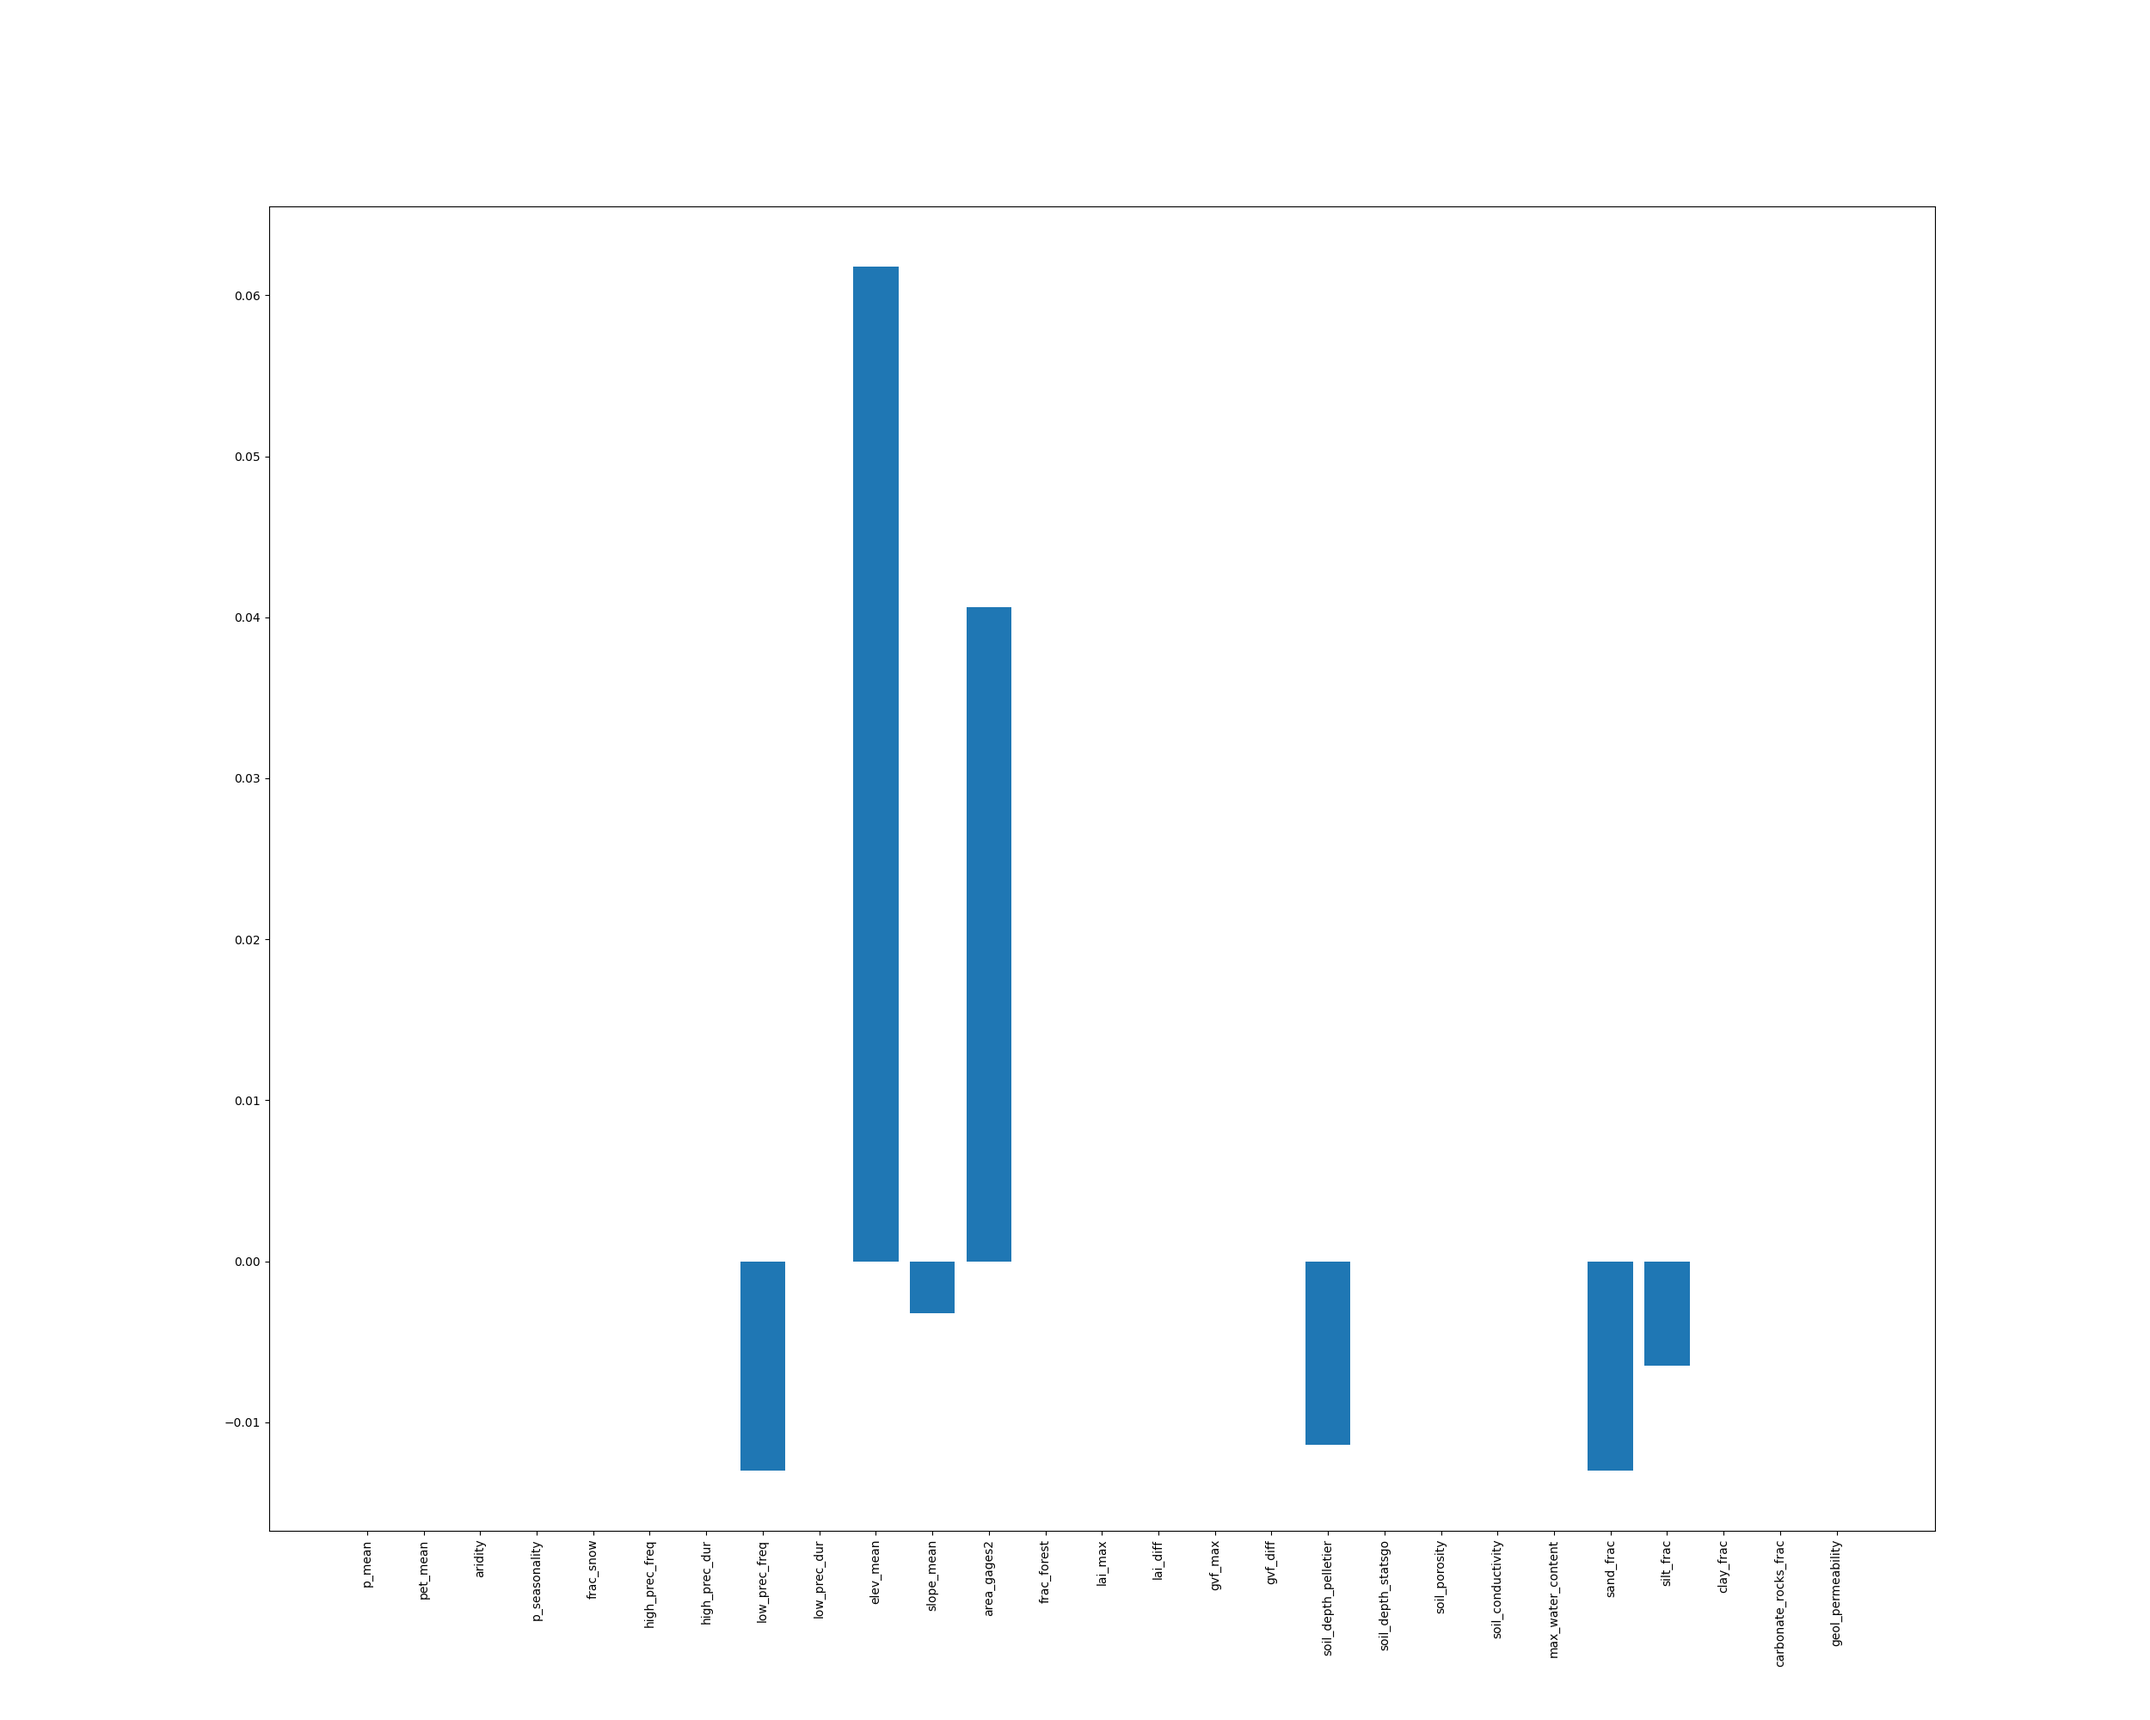
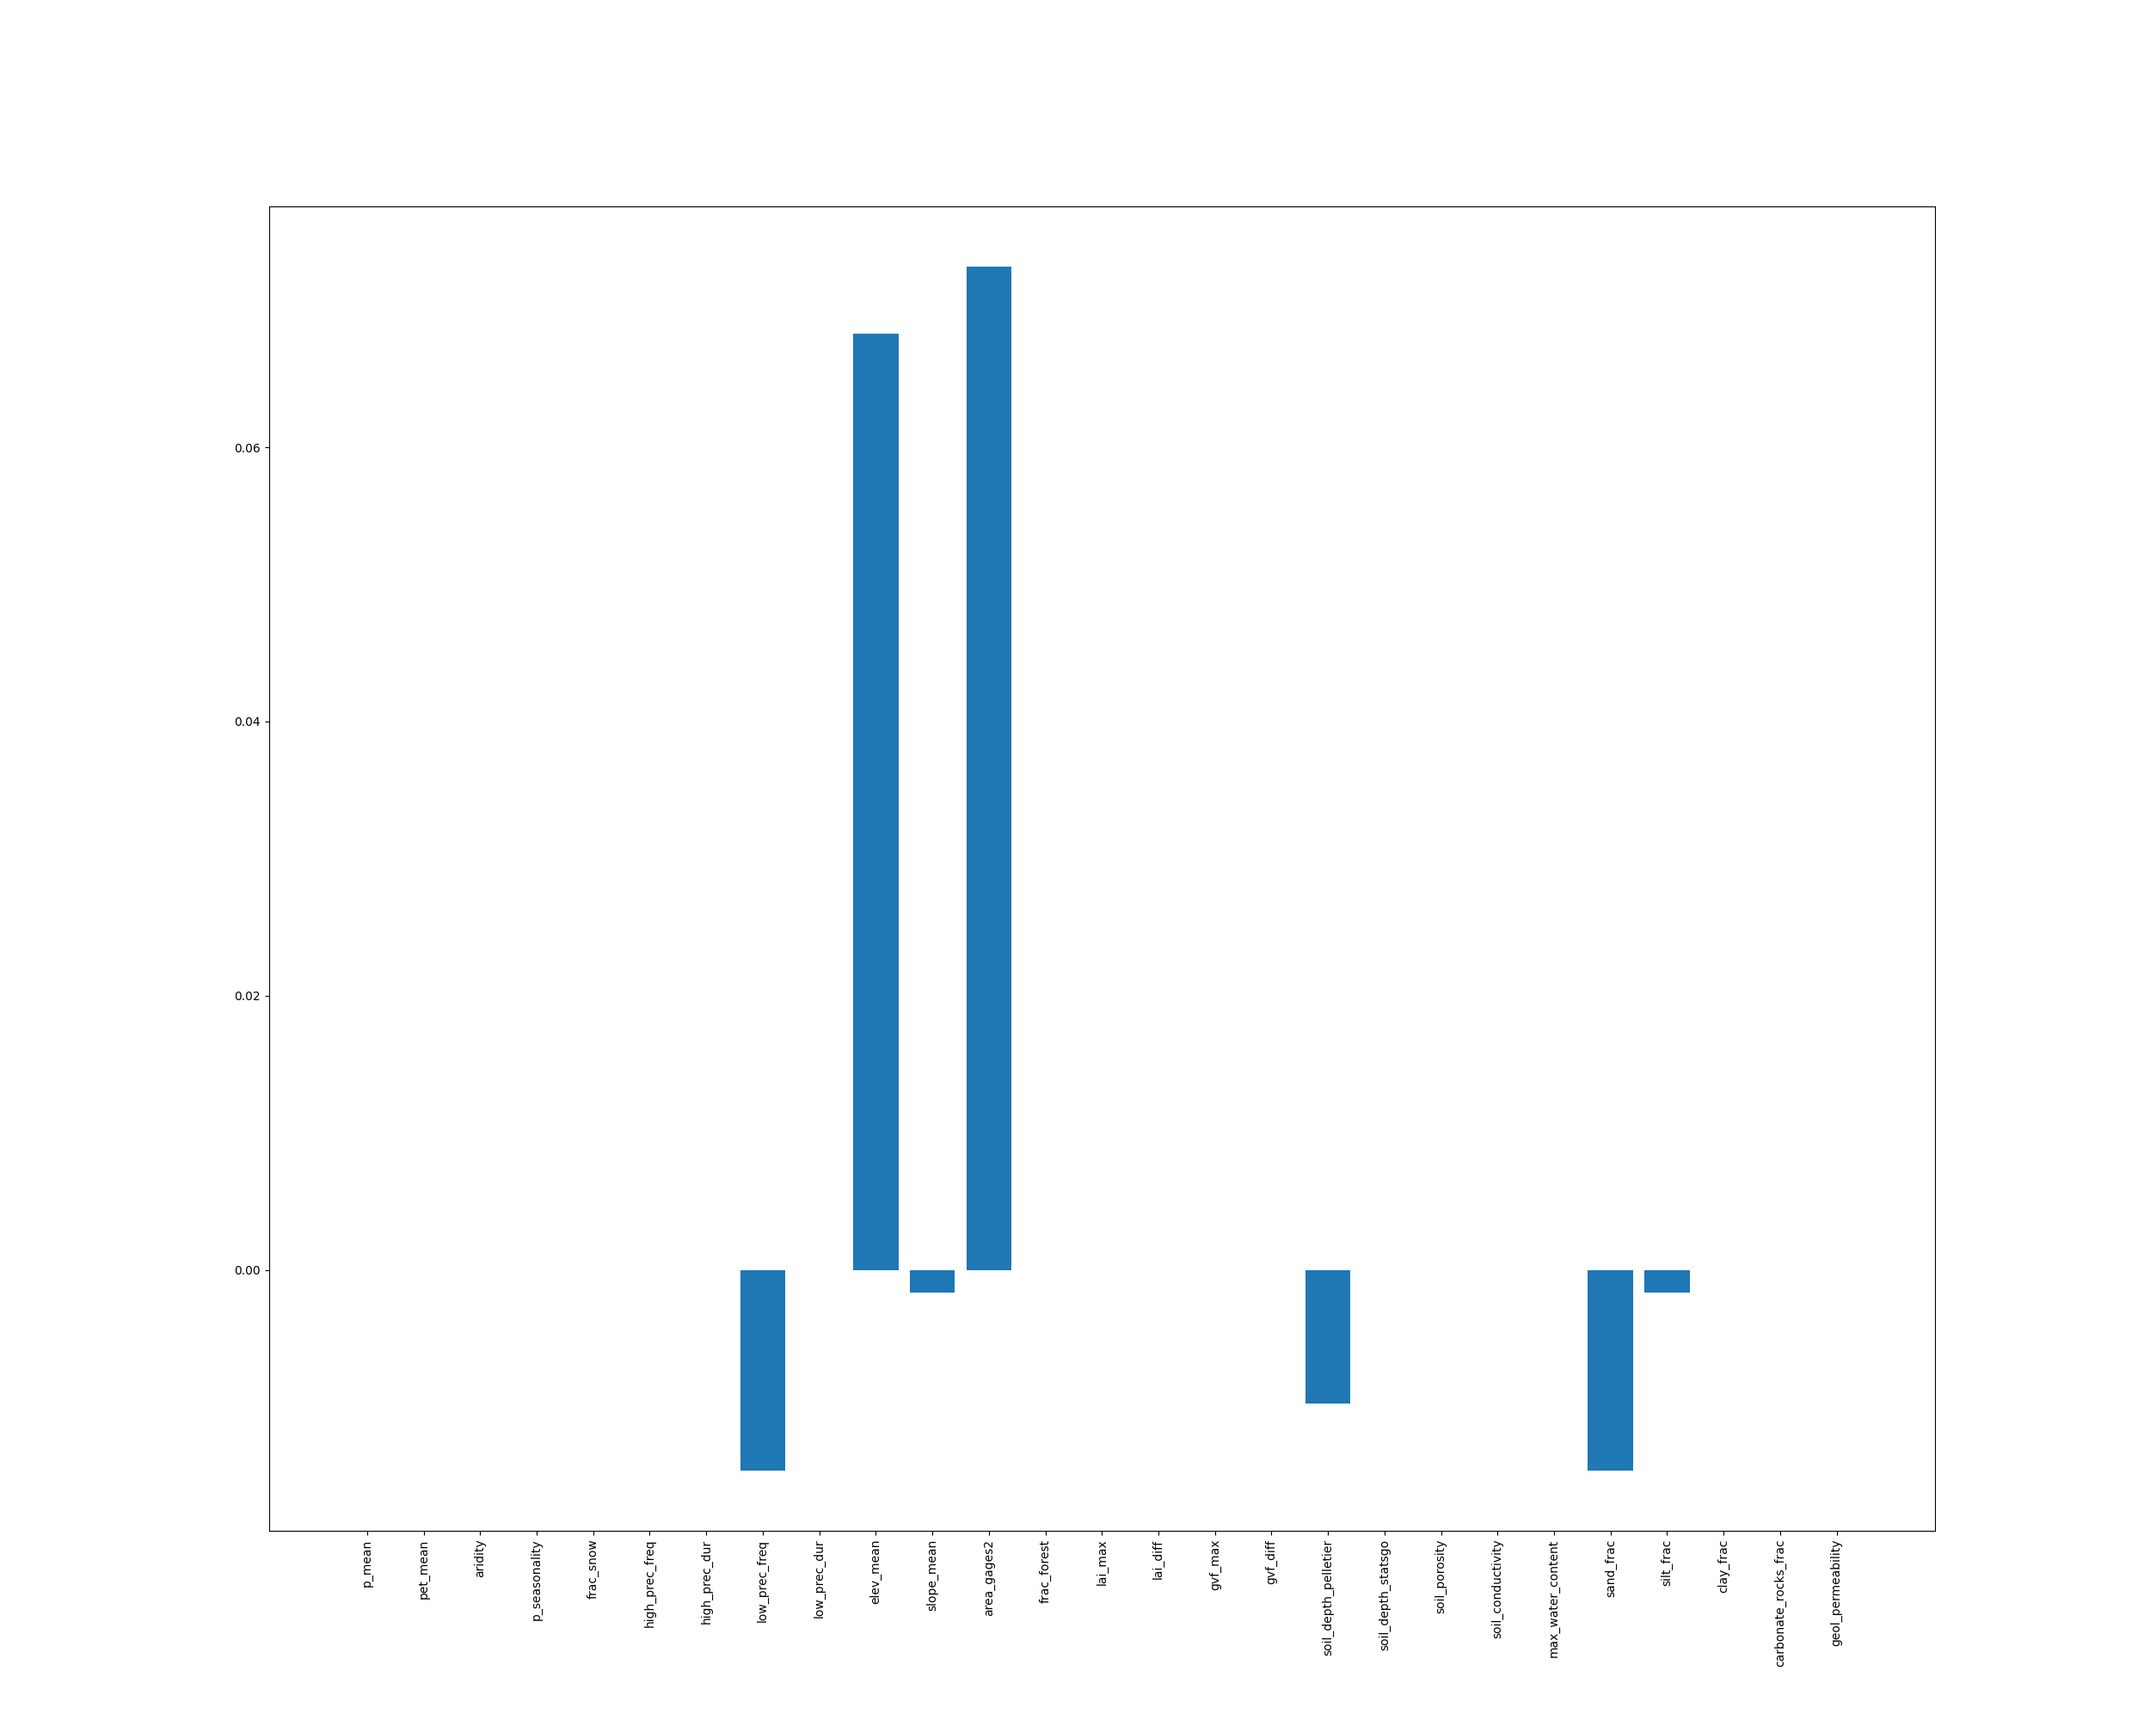
checking numpy with zeros in CAMELS dataset

diff --git a/src/CAMELS_dataset.py b/src/CAMELS_dataset.py
@@ -409,7 +409,9 @@ class Dataset_CAMELS(FloodML_Base_Dataset):
                                                                      self.max_dim // 4)
                     for i in range(X_data_spatial.shape[0]):
                         X_data_spatial_list.append(
-                            np.expand_dims(np.random.normal(0.0, 1.0, (self.max_dim, self.max_dim)), axis=0))
+                            np.expand_dims(np.zeros((self.max_dim, self.max_dim)), axis=0))
+                        # X_data_spatial_list.append(
+                        #     np.expand_dims(np.random.normal(0.0, 1.0, (self.max_dim, self.max_dim)), axis=0))
                         # X_data_spatial_list.append(
                         #     np.expand_dims(cv2.resize(X_data_spatial[i, :, :].squeeze(), (self.max_dim, self.max_dim),
                         #                               interpolation=cv2.INTER_CUBIC), axis=0))

diff --git a/src/create_CDF_NSE_comparison_plot_from_slurm_output.py b/src/create_CDF_NSE_comparison_plot_from_slurm_output.py
@@ -94,7 +94,7 @@ def create_dict_basin_id_to_NSE_my_code(logs_filename):
 
 
 def plot_NSE_CDF_graphs_my_code():
-    input_file_names = ["slurm-7307546.out", "slurm-8347801.out"]
+    input_file_names = ["slurm-7307546.out", "slurm-9775823.out"]
     input_file_paths = [Path(file_name).resolve() for file_name in input_file_names]
     dict_all_files = {}
     for input_file_path in input_file_paths:
